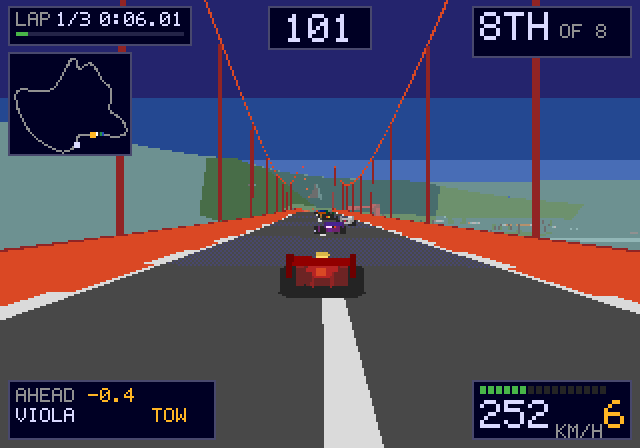
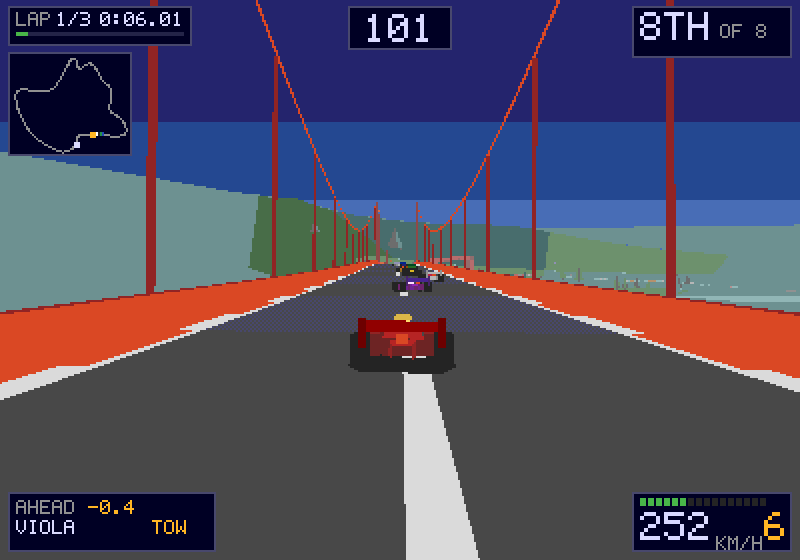
Floodlights, a wider screen, a quiet announcer, and a car that is not a point
You could still hang half the car over the edge of the bridge. The barrier
stops the centreline and a car is a metre wide either side of it, so
clamping to the rail left the outer wheels a metre past it - which anywhere
else looks like leaning on a barrier and on a bridge looks like a car parked
in mid-air. The barrier is a car's half-width inside the rail now, so the
outer wheel touches it and stops. Measured over a whole race with everybody
driving over the limit: the furthest any wheel reaches is five centimetres
past the railing.

Floodlights on masts, alternating sides every seventy metres, leaning out
over the track. They come on at dusk rather than at nightfall, which is what
a real circuit does, and after dark the lamp heads are not tinted with the
rest of the world because a lamp is a lamp. Each one puts a pool on the
tarmac; your own headlights are brighter and gone by ninety metres, the
floodlights are dimmer and reach the horizon, so the pool in front of you
still reads as yours.

400 x 280 rather than 320 x 224: a quarter more, in the same ten by seven
shape, and about the most that can be added before the pixels stop being
pixels. The field of view is scaled with it so nothing about the driving
changes. A hundred and twelve thousand pixels against seventy-two, and the
frame still costs two milliseconds.

And the announcer is off unless it is asked for. It says four things and it
says them well, and it is still the first thing anybody turns off.
[…]

diff --git a/src/render/renderer.js b/src/render/renderer.js
@@ -337,7 +337,10 @@ export class Renderer {
     const edge = ROAD_HALF + RUMBLE;
     const first = nodeAt(route, p.s).i - DRAW_BEHIND;
 
-    const night = Math.max(0, (this.lightAt - 0.45) / 0.55);
+    // Nought until the sun is on the horizon, one when it has gone. It starts
+    // early enough that the floodlights come on at dusk, which is when a real
+    // circuit switches them on - a good half hour before anybody needs them.
+    const night = Math.max(0, (this.lightAt - 0.4) / 0.6);
     for (let step = 0; step < DRAW_AHEAD; step++) {
       const i = first + step;
       const a = nodeStep(route, i, 0);
@@ -347,7 +350,16 @@ export class Renderer {
       // The headlights: at night the near tarmac is a good deal brighter than
       // the rest of the world, which is what a car's own lights look like from
       // inside it and is most of what makes a night lap readable.
-      const beam = night > 0 ? night * Math.max(0, 1 - away / 85) ** 1.4 : 0;
+      // Two things light the tarmac after dark: your own headlights, which are
+      // brightest under the nose and gone by ninety metres, and the floodlights,
+      // which are dimmer and go all the way to the horizon. The brighter of the
+      // two wins, so the pool in front of you still reads as yours.
+      const beam = night > 0
+        ? night * Math.max(
+          Math.max(0, 1 - away / 85) ** 1.4,
+          0.34 + 0.2 * Math.cos((((i % 12) + 12) % 12) / 12 * Math.PI * 2),
+        )
+        : 0;
       const tint = (colour) => mix(this.lamp(colour), theme.fog, f);
       const road = beam > 0
         ? (colour) => mix(shade(this.lamp(colour), 1 + beam * 2.4), theme.fog, f)
@@ -477,7 +489,7 @@ export class Renderer {
             a.x + a.nx * off,
             groundY(a, Math.sign(off) || 1, Math.abs(off)) + (prop.lift || 0),
             a.z + a.nz * off,
-            tint, local, prop.align ? a.a : 0, state.tick);
+            tint, local, prop.align ? a.a : 0, state.tick, night);
         }
       }
     }

diff --git a/src/constants.js b/src/constants.js
@@ -104,6 +104,15 @@ export const TOW_DRAG = 0.55;       // how much of your drag disappears, at best
 /** Car bodies, for the shoving: half a car wide and a car and a bit long. */
 export const BODY_X = 1.9;
 export const BODY_S = 4.6;
+/**
+ * Half the width of one, for the barrier.
+ *
+ * The barrier stops the car, and a car is not a point: clamping the centreline
+ * to the rail leaves the outer wheels a metre past it, which anywhere else looks
+ * like a car leaning on a barrier and on a bridge looks like a car parked in
+ * mid-air over the water.
+ */
+export const CAR_HALF = 1.05;
 /** Metres per second of shove when two cars touch, and what it costs the pair. */
 export const NUDGE = 6.5;
 export const NUDGE_COST = 0.965;
@@ -266,8 +275,17 @@ export function gearAt(speed) {
  * laptop. Every triangle is flat, every colour is one of the five hundred and
  * twelve that machine could make, and there is not a texture anywhere.
  */
-export const SCREEN_W = 320;
-export const SCREEN_H = 224;
+/**
+ * Four hundred by two hundred and eighty.
+ *
+ * A quarter more than the 320 x 224 a Mega Drive put on a television, in the
+ * same ten by seven shape, and about the most that can be added without the
+ * pixels stopping being pixels. It costs half again as many of them to fill -
+ * a hundred and twelve thousand against seventy-two - which the software
+ * rasteriser has the room for and the look has the tolerance for.
+ */
+export const SCREEN_W = 400;
+export const SCREEN_H = 280;
 
 /**
  * Field of view, as the focal length of a screen this wide.
@@ -278,8 +296,8 @@ export const SCREEN_H = 224;
  * through the middle of it. The eye reads that as velocity far more readily than
  * it reads a number changing in the corner.
  */
-export const FOCAL = 250;
-export const FOCAL_FAST = 178;
+export const FOCAL = 312;
+export const FOCAL_FAST = 222;
 /** Nothing nearer than this is drawn, because the maths stops working at zero. */
 export const NEAR = 0.55;
 

diff --git a/src/render/models.js b/src/render/models.js
@@ -79,7 +79,7 @@ function box(rt, tint, colour, x0, x1, y0, y1, z0, z1) {
 
 // --- Scenery -----------------------------------------------------------------
 
-export function drawProp(rt, prop, x, y, z, tint, theme, facing = 0, time = 0) {
+export function drawProp(rt, prop, x, y, z, tint, theme, facing = 0, time = 0, night = 0) {
   const s = prop.s || 1;
   // Trees and rocks are turned any old way and that is the point of them. A
   // gantry, a grandstand and a marker post belong to the track and are handed
@@ -122,6 +122,24 @@ export function drawProp(rt, prop, x, y, z, tint, theme, facing = 0, time = 0) {
       put.face(rt, side, [0, h, 0, 1, 0, 1, 1.1, 0, -0.9]);
       put.face(rt, dark, [0, h, 0, 1.1, 0, -0.9, -1, 0, -1]);
       put.face(rt, side, [0, h, 0, -1, 0, -1, -1, 0, 1]);
+      break;
+    }
+    case 'mast': {
+      // A floodlight on a pole, leaning out over the track. Two faces of pole,
+      // an arm and a head - and after dark the head is not tinted at all,
+      // because a lamp is a lamp and the whole reason it is there is that the
+      // rest of the world has gone dark around it.
+      const steel = tint(C.metal);
+      const dark = tint(shade(C.metal, 0.7));
+      put.face(rt, steel, [-0.24, 0, 0, 0.24, 0, 0, 0.18, 11, 0, -0.18, 11, 0]);
+      put.face(rt, dark, [0, 0, -0.24, 0, 0, 0.24, 0, 11, 0.18, 0, 11, -0.18]);
+      put.face(rt, steel, [-0.16, 10.5, 0, -0.16, 11, 0, -3.4, 11.6, 0, -3.4, 11.2, 0]);
+      const lit = night > 0.03;
+      const lamp = lit ? C.lamp : tint(shade(C.chrome, 0.9));
+      put.face(rt, lamp, [-4.1, 10.9, -0.5, -2.9, 10.9, -0.5, -2.9, 11.5, -0.5, -4.1, 11.5, -0.5]);
+      put.face(rt, lamp, [-2.9, 10.9, 0.5, -4.1, 10.9, 0.5, -4.1, 11.5, 0.5, -2.9, 11.5, 0.5]);
+      put.face(rt, lit ? C.lamp : tint(C.chrome),
+        [-4.1, 10.85, -0.5, -2.9, 10.85, -0.5, -2.9, 10.85, 0.5, -4.1, 10.85, 0.5]);
       break;
     }
     case 'post':

diff --git a/src/game/sim.js b/src/game/sim.js
@@ -30,7 +30,7 @@ import {
   BTN, CHECKPOINT_TIME, DRAG, DRIVE, DT, GRAVITY, GRIP, GRIP_ROUGH, GRIP_VERGE, NUDGE,
   NUDGE_COST, OFFROAD_DRAG, OFFROAD_TOP, ROAD_HALF, ROLL_DRAG, SCRUB, SEG, SLOPE_PULL,
   SPIN_AT, SPIN_KEEP, SPIN_TIME, STEER_FLOOR, STEER_RATE, STEER_SPEED, TOP_SPEED, TOW_DRAG,
-  TOW_RANGE, TOW_WIDTH, WALL_AT, WALL_KEEP,
+  TOW_RANGE, TOW_WIDTH, WALL_AT, WALL_KEEP, CAR_HALF,
 } from '../constants.js';
 import { nextRandom, randRange } from '../util.js';
 import { makeState, nodeAt, nodeStep, player, racing, surfaceOf } from './state.js';
@@ -237,7 +237,7 @@ function drive(state, car) {
   // easing the ground uses to fall away, so the eight metres of run-off narrow
   // to nothing over the first twenty-four metres of the crossing rather than
   // disappearing between one node and the next.
-  const wall = WALL_AT + (ROAD_HALF + 0.75 - WALL_AT) * (node.g.bay || 0);
+  const wall = WALL_AT + (ROAD_HALF + 0.75 - WALL_AT) * (node.g.bay || 0) - CAR_HALF;
   if (Math.abs(car.x) > wall) {
     const into = Math.abs(car.vx) + car.speed * 0.08;
     car.x = Math.sign(car.x) * wall;

diff --git a/src/game/route.js b/src/game/route.js
@@ -525,6 +525,14 @@ function scatter(nodes, rnd) {
       add(i, { kind: 'post', side: 1, off: 16.4, s: 1, r: 0, align: true });
     }
 
+    // Floodlights, alternating sides every seventy metres, leaning out over the
+    // track. On a circuit that finishes in the dark they are not decoration -
+    // they are the reason the third lap is a lap rather than a corridor.
+    if (i % 12 === 0 && !nodes[i].bridge) {
+      const side = (i / 12) % 2 === 0 ? -1 : 1;
+      add(i, { kind: 'mast', side, off: 17.5, s: 1, r: side < 0 ? 0 : Math.PI, align: true });
+    }
+
     if (warm < 0.55) {
       // Trees on the low side, rock on the high side: that is what a cut through
       // a hill looks like, and it also tells you which way the track is about to

diff --git a/src/audio.js b/src/audio.js
@@ -30,7 +30,9 @@ export class Sound {
   constructor() {
     this.ctx = null;
     this.on = true;
-    this.talk = true;
+    // The voice is off unless it is asked for. It says four things and it says
+    // them well, and it is still the first thing anybody turns off.
+    this.talk = false;
     this.running = false;
     this.nodes = null;
     this.speech = null;

diff --git a/index.html b/index.html
@@ -75,8 +75,8 @@
         <div class="row">
           <label>Voice</label>
           <div class="btns">
-            <button data-talk="on" class="active">On</button>
-            <button data-talk="off">Off</button>
+            <button data-talk="on">On</button>
+            <button data-talk="off" class="active">Off</button>
           </div>
         </div>
 

diff --git a/src/render/palette.js b/src/render/palette.js
@@ -29,6 +29,7 @@ export const C = {
   helmet: md(236, 236, 240),
   hot: md(250, 190, 40),
   tail: md(255, 60, 40),
+  lamp: md(255, 244, 196),
   crowd: md(160, 120, 150),
   armco: md(206, 210, 214),
 };

diff --git a/README.md b/README.md
@@ -118,7 +118,8 @@ are when they are not in front of you.
 horizon by the second lap and finishes at night, gradually and without ever doing
 it in front of you. It is measured on distance rather than on the clock, so a
 race that has gone badly gets dark at the same place on the circuit as one that
-has gone well.
+has gone well. The floodlights beside the track come on at dusk, a good half hour
+before anybody needs them, which is what a real circuit does.
 
 ![The sun on the horizon, second lap](docs/screenshots/dusk.png)
 
@@ -200,11 +201,13 @@ billboards, no textures anywhere. Go round a bend and the palm tree turns,
 because it is actually there.
 
 The renderer is about five hundred lines and does not use the GPU. It transforms,
-clips, projects and fills every triangle by hand into a `Uint32Array` at 320 ×
-224, which is what a Mega Drive put on a television, and blows the result up to
-fit the window with the smoothing turned off. That is not the slow way round:
-five thousand flat triangles over seventy-one thousand pixels is about two
-milliseconds, which leaves fourteen of the sixteen a frame gets.
+clips, projects and fills every triangle by hand into a `Uint32Array` at 400 ×
+280 — a quarter more than the 320 × 224 a Mega Drive put on a television, in the
+same ten by seven shape, and about the most that can be added before the pixels
+stop being pixels — and blows the result up to fit the window with the smoothing
+turned off. That is not the slow way round: three thousand flat triangles over a
+hundred and twelve thousand pixels is about two milliseconds, which leaves
+fourteen of the sixteen a frame gets.
 
 Doing it in software buys the one thing a modern pipeline will not give you,
 which is the actual look:
@@ -252,6 +255,10 @@ four things that cost nothing and are worth more than another fifty would be:
   straight, with the ground falling away to water on both sides of the deck. The
   cable is the whole thing: take it away and it is a road with red walls on it,
   put it back and it is a crossing, from half a mile away, in eight quads a node.
+- **Floodlights that are actually lights.** After dark the lamp heads are not
+  tinted with the rest of the world, and each one puts a pool on the tarmac. Your
+  own headlights are brighter and gone by ninety metres; the floodlights are
+  dimmer and go to the horizon, so the pool in front of you still reads as yours.
 - **A day that ends.** Each time of day is one arithmetic operation applied to
   every colour that goes into the world — darken, then pull towards a wash — so a
   colour added tomorrow gets a night version for nothing. The sky is the
